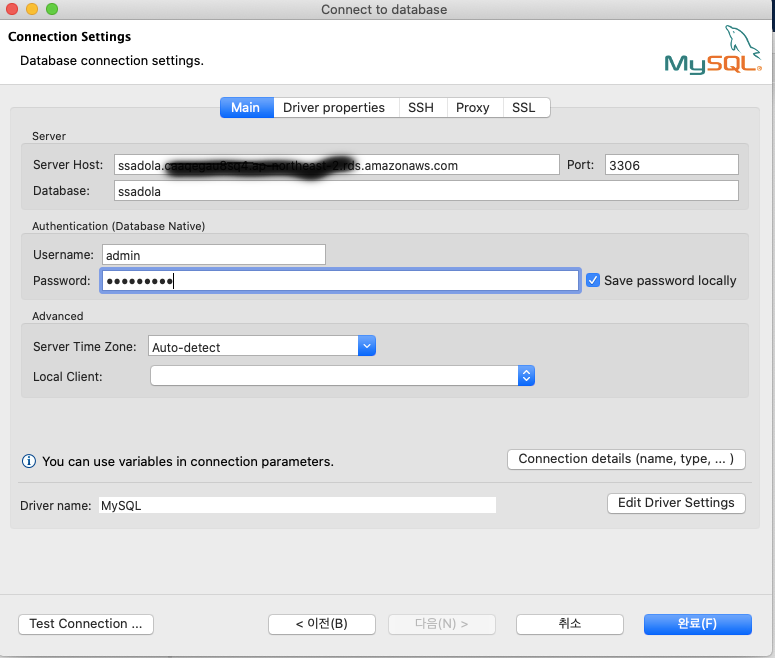
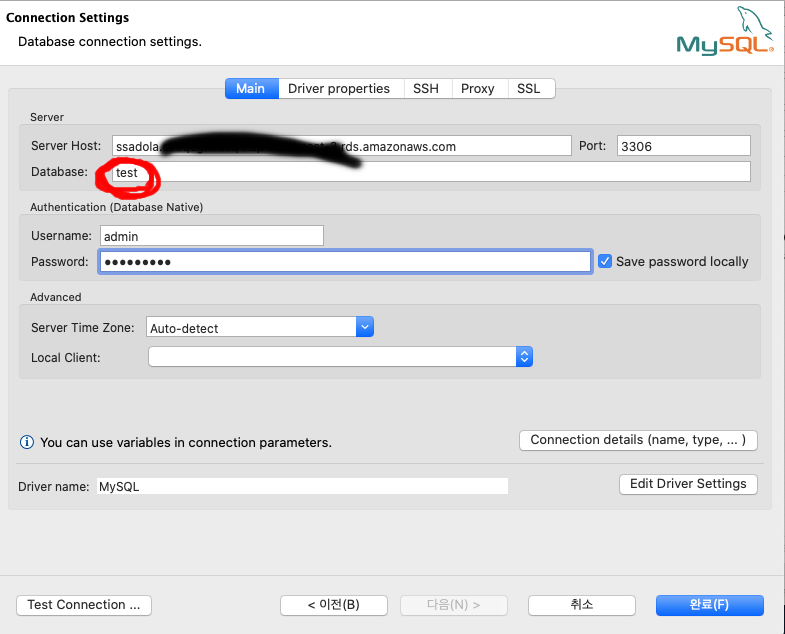
How to use Dbeaver

diff --git a/EC2&RDS/서버접속방법.md b/EC2&RDS/서버접속방법.md
@@ -39,9 +39,15 @@ EC2 서버가 우분투라서 우분투 명령어 써야해요.
 
 3. RDS 접속 - GUI by Dbeaver
 
-디비버라는 툴로 디비 관리 가능함.  
+**디비버**라는 툴로 디비 관리 가능함.  
+[다운로드](https://dbeaver.io/download/)  
+
+RDS 엔드 포인트와 계정 admin/**** 필요 
+**데이터베이스명 : test**  
+*미안해요..생성하다가..디비명을..test로 해버렸어요..미안해요*
 ![dbeaver](./RDS-Dbeaver.png)  
-<https://dbeaver.io/download/>  
-  
-설치 후 참고하여 RDS와 연결함.  
+
+RDS와 연결 후  
+![dbeaver_connect](./Dbaever-sample.png)
+참고   
 <https://mia15.tistory.com/entry/AWS-RDS-%EC%83%9D%EC%84%B1%EB%B6%80%ED%84%B0-%EC%97%B0%EA%B2%B0%EA%B9%8C%EC%A7%80>
